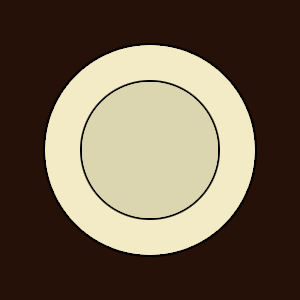
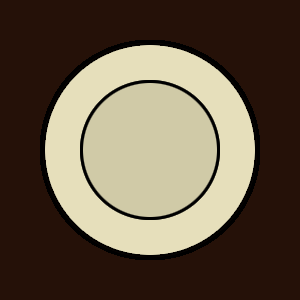
[pictures] add dark piece image and update light piece image [Checkers.js] implement dark piece

diff --git a/frontend/src/components/games/checkers/Checkers.js b/frontend/src/components/games/checkers/Checkers.js
@@ -5,6 +5,7 @@ import "./checkers.css";
 import LightSquare from "./pictures/LightSquare.png";
 import DarkSquare from "./pictures/DarkSquare.png";
 import DarkSquareLight from "./pictures/DarkSquareLight.png";
+import DarkSquareDark from "./pictures/DarkSquareDark.png";
 
 const Checkers = (props) => 
 {
@@ -19,10 +20,10 @@ const Checkers = (props) =>
 
     const lightSquare = <img className="checker-square" src={LightSquare} />;
     const darkSquare = <img className="checker-square" src={DarkSquare} />;
-    const darkSquareDark = <img className="checker-square" src={DarkSquare} />;
     const darkSquareLight = <img className="checker-square" src={DarkSquareLight} />;
-    const darkSquareDarkClick = <img className="checker-square" src={DarkSquare} />;
+    const darkSquareDark = <img className="checker-square" src={DarkSquareDark} />;
     const darkSquareLightClick = <img className="checker-square" src={DarkSquareLight} />;
+    const darkSquareDarkClick = <img className="checker-square" src={DarkSquareDark} />;
 
     let checkersBoard;
 
